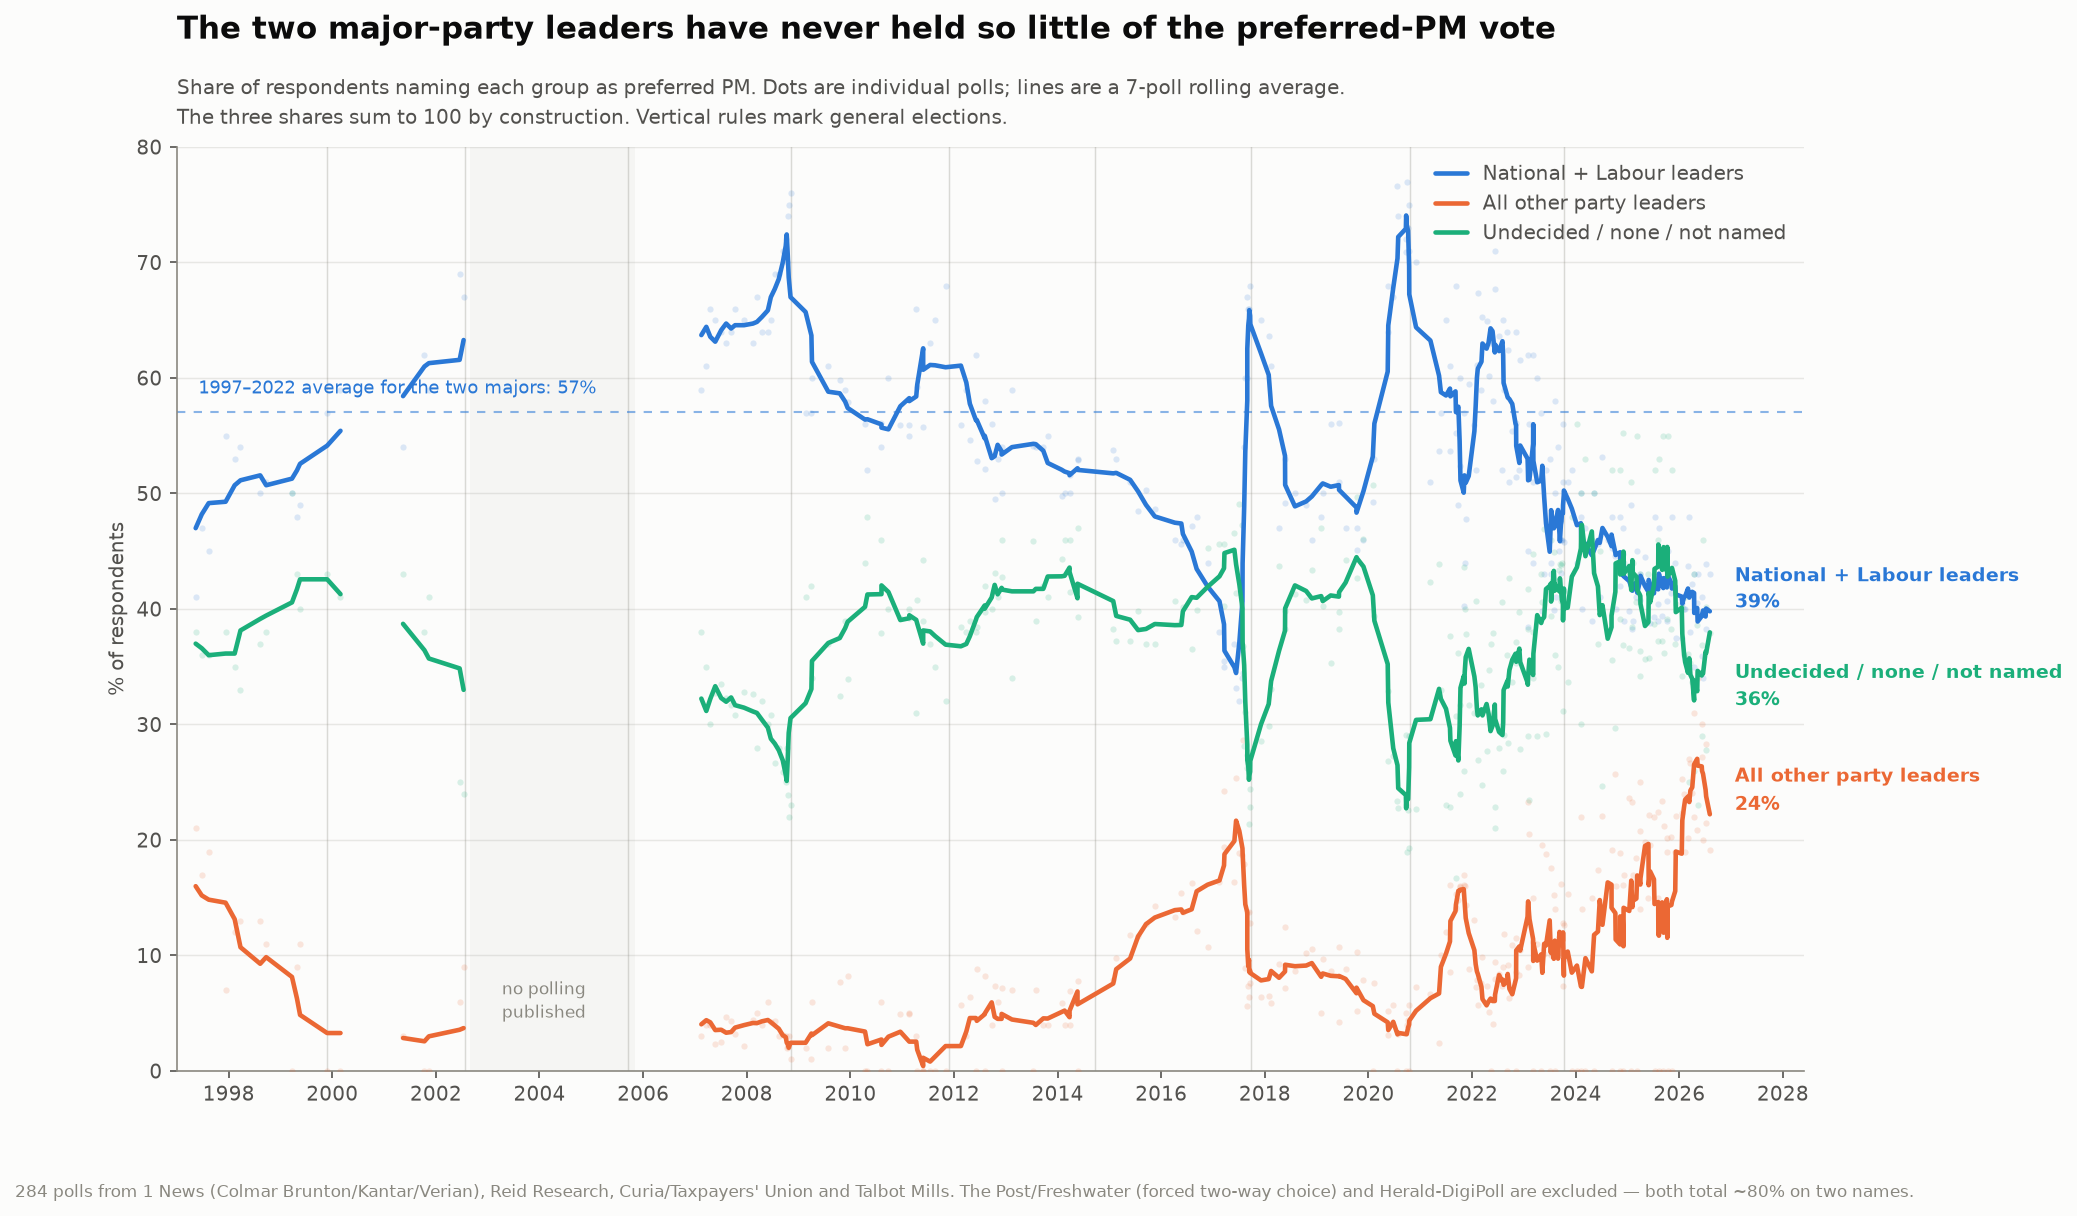
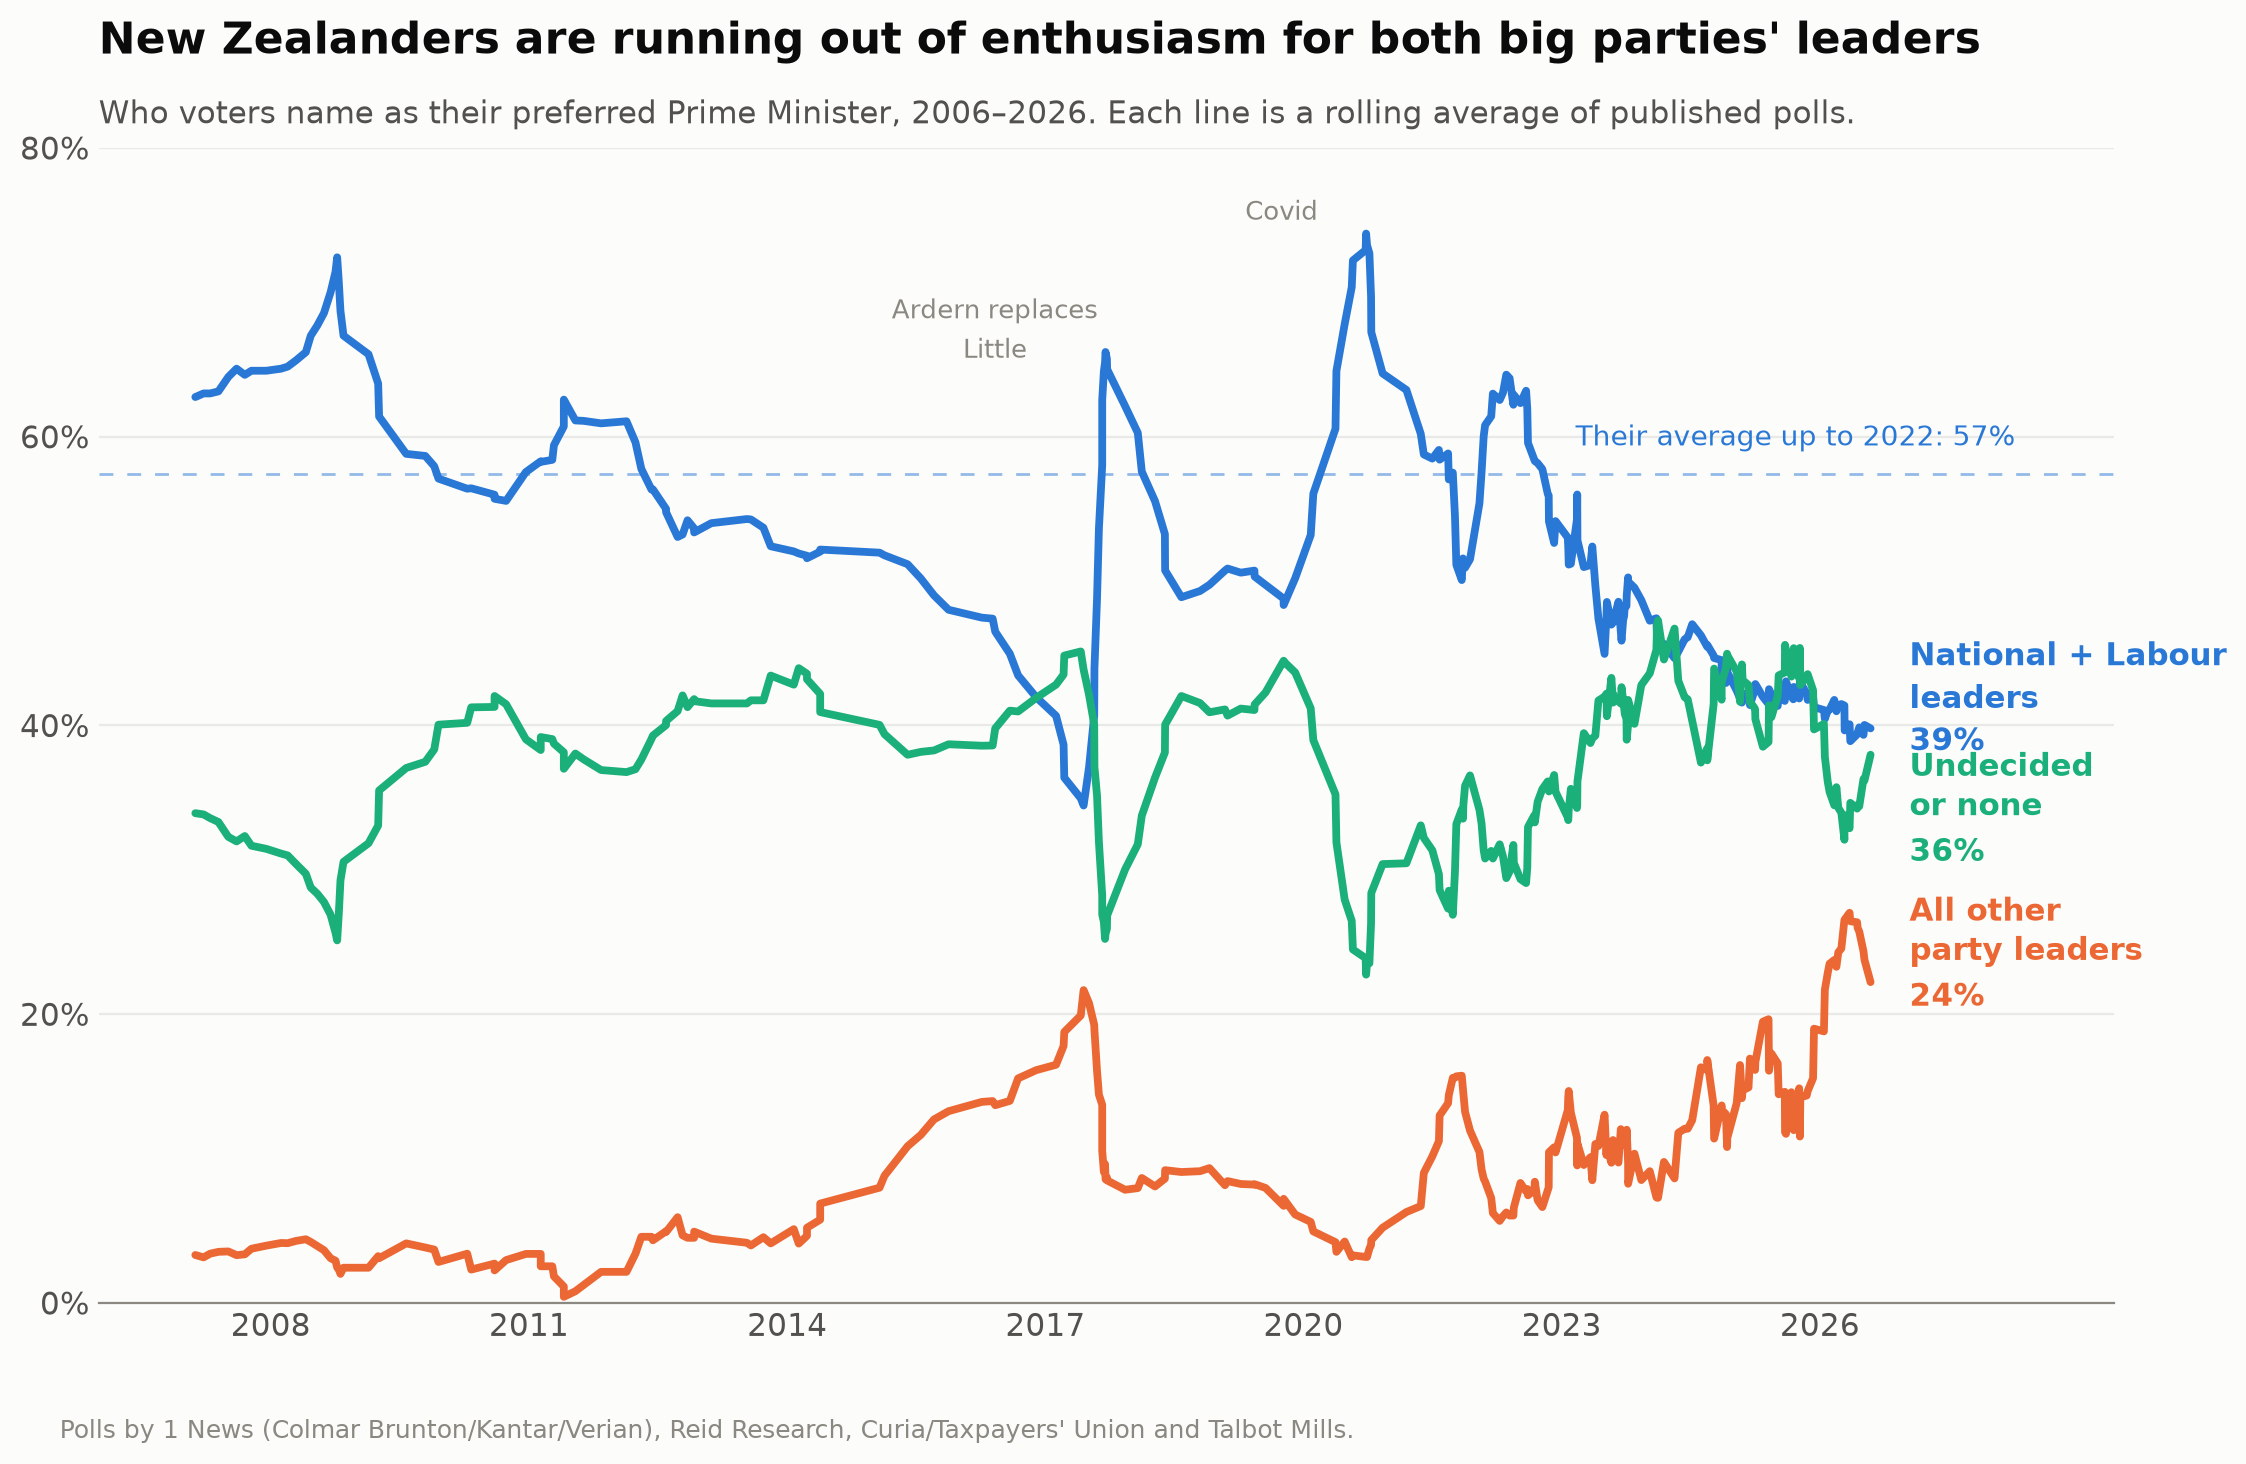
Rework preferred-PM composition chart for a general readership
Starts at 2006 rather than 1997, which also drops the sparse early series and
the 2003-05 hole. Strips the chart back for print: no scatter layer, no legend
box (the three lines are labelled at their right-hand ends, which carries
identity more directly than a duplicate key), no election rules, no left spine,
20-point y-grid.

Adds plain-language framing — a headline that states the finding, and two notes
marking the Ardern and Covid spikes, which a reader outside politics would
otherwise have no way to place.

diff --git a/pm_composition_graph.py b/pm_composition_graph.py
@@ -1,7 +1,7 @@
 #!/usr/bin/env python3
 """
-Where the preferred-PM vote sits: the two major-party leaders, every other named
-leader, and the undecided/none residual, 1997-2026.
+Where the preferred-PM vote sits, 2006-2026: the two major-party leaders, every
+other named leader, and the undecided/none residual.
 
 Restricted to the four continuous polling houses. The Post/Freshwater asks a
 forced two-way choice (its two numbers total ~80) and Herald-DigiPoll ran on a
@@ -18,16 +18,18 @@ import matplotlib.dates as mdates
 import matplotlib.pyplot as plt
 import pandas as pd
 
-from pm_history_graph import LEADER_PARTY, ELECTIONS
+from pm_history_graph import LEADER_PARTY
 
 ROOT = Path(__file__).parent
 
-# Reference palette slots 1-3 — the three that validate on the all-pairs list
-# colour, legend label, vertical nudge (points) for the end label
+START = "2006-01-01"
+
+# Reference palette slots 1-3 — the three that validate on the all-pairs list.
+# colour, label, vertical nudge (points) so the end labels don't collide
 SERIES = {
-    "majors": ("#2a78d6", "National + Labour leaders", 14),
-    "minors": ("#eb6834", "All other party leaders", 0),
-    "residual": ("#1baf7a", "Undecided / none / not named", -16),
+    "majors": ("#2a78d6", "National + Labour\nleaders", 14),
+    "minors": ("#eb6834", "All other\nparty leaders", 0),
+    "residual": ("#1baf7a", "Undecided\nor none", -10),
 }
 
 CORE_HOUSES = {
@@ -37,21 +39,16 @@ CORE_HOUSES = {
     "Talbot Mills": ("talbot",),
 }
 
-BASELINE_END = 2023  # long-run major-party average is taken over 1997-2022
+# Short notes for the two spikes a general reader would otherwise puzzle over
+NOTES = [
+    ("2016-06-01", 70, "Ardern replaces\nLittle"),
+    ("2019-10-01", 77, "Covid"),
+]
 
 TEXT_PRIMARY = "#0b0b0b"
 TEXT_SECONDARY = "#52514e"
 TEXT_MUTED = "#8a8880"
 SURFACE = "#fcfcfb"
-
-
-def break_gaps(line: pd.Series, days: int = 270) -> pd.Series:
-    """Don't draw a straight line across the years nobody polled."""
-    gaps = line.index.to_series().diff() > pd.Timedelta(days=days)
-    if not gaps.any():
-        return line
-    breaks = pd.Series(float("nan"), index=line.index[gaps] - pd.Timedelta(days=1))
-    return pd.concat([line, breaks]).sort_index()
 
 
 def house(pollster: str):
@@ -63,11 +60,12 @@ def house(pollster: str):
 
 
 def build() -> pd.DataFrame:
-    """One row per poll: the three shares, which must sum to 100."""
+    """One row per poll: the three shares, which sum to 100."""
     df = pd.read_csv(ROOT / "data" / "pm_polling_all.csv", parse_dates=["date"])
     df["party"] = df["candidate"].map(LEADER_PARTY)
     df["house"] = df["pollster"].map(house)
     df = df.dropna(subset=["house"])
+    df = df[df["date"] >= START]
 
     rows = []
     for (date, pollster), poll in df.groupby(["date", "pollster"]):
@@ -89,75 +87,62 @@ def build() -> pd.DataFrame:
 
 def main():
     df = build()
-    baseline = df.loc[df.index.year < BASELINE_END, "majors"].mean()
+    baseline = df.loc[df.index.year < 2023, "majors"].mean()
 
-    fig, ax = plt.subplots(figsize=(14, 8))
+    fig, ax = plt.subplots(figsize=(13, 7.5))
     fig.patch.set_facecolor(SURFACE)
     ax.set_facecolor(SURFACE)
 
-    for election in ELECTIONS:
-        ax.axvline(pd.Timestamp(election), color=TEXT_MUTED, linewidth=0.7,
-                   alpha=0.3, zorder=1)
+    ax.axhline(baseline, color=SERIES["majors"][0], linewidth=1,
+               linestyle=(0, (5, 5)), alpha=0.5, zorder=2)
+    ax.text(pd.Timestamp("2023-03-01"), baseline + 1.5,
+            f"Their average up to 2022: {baseline:.0f}%",
+            fontsize=10, color=SERIES["majors"][0], va="bottom")
 
-    # No preferred-PM polling published for the 2005 cycle
-    ax.axvspan(pd.Timestamp("2002-09-01"), pd.Timestamp("2005-11-01"),
-               color=TEXT_MUTED, alpha=0.06, zorder=0, linewidth=0)
-    ax.text(pd.Timestamp("2004-02-01"), 4, "no polling\npublished",
-            ha="center", va="bottom", fontsize=8, color=TEXT_MUTED, linespacing=1.4)
-
-    ax.axhline(baseline, color=SERIES["majors"][0], linewidth=1, linestyle=(0, (4, 4)),
-               alpha=0.55, zorder=2)
-    ax.text(pd.Timestamp("1997-06-01"), baseline + 1.2,
-            f"1997–2022 average for the two majors: {baseline:.0f}%",
-            fontsize=8.5, color=SERIES["majors"][0], va="bottom")
+    for date, y, text in NOTES:
+        ax.annotate(text, xy=(pd.Timestamp(date), y), ha="center", va="top",
+                    fontsize=9.5, color=TEXT_MUTED, linespacing=1.4, zorder=3)
 
     for key, (colour, label, label_dy) in SERIES.items():
-        ax.plot(df.index, df[key], "o", markersize=3, color=colour,
-                alpha=0.16, markeredgewidth=0, zorder=3)
-        line = break_gaps(df[key].rolling(7, center=True, min_periods=3).mean())
-        ax.plot(line.index, line.values, color=colour, linewidth=2.2,
-                solid_capstyle="round", zorder=4, label=label)
+        line = df[key].rolling(7, center=True, min_periods=3).mean()
+        ax.plot(line.index, line.values, color=colour, linewidth=2.8,
+                solid_capstyle="round", zorder=4)
         ax.annotate(f"{label}\n{df[key].tail(6).mean():.0f}%",
                     xy=(df.index[-1], df[key].tail(6).mean()),
-                    textcoords="offset points", xytext=(12, label_dy),
-                    ha="left", va="center", fontsize=9, fontweight="bold",
+                    textcoords="offset points", xytext=(14, label_dy),
+                    ha="left", va="center", fontsize=11, fontweight="bold",
                     color=colour, linespacing=1.4, zorder=5)
 
-    ax.set_title("The two major-party leaders have never held so little of the "
-                 "preferred-PM vote",
-                 fontsize=15, fontweight="bold", color=TEXT_PRIMARY, loc="left", pad=52)
+    ax.set_title("New Zealanders are running out of enthusiasm for both big parties' leaders",
+                 fontsize=16, fontweight="bold", color=TEXT_PRIMARY, loc="left", pad=34)
     ax.text(0, 1.015,
-            "Share of respondents naming each group as preferred PM. Dots are individual "
-            "polls; lines are a 7-poll rolling average.\nThe three shares sum to 100 by "
-            "construction. Vertical rules mark general elections.",
-            transform=ax.transAxes, fontsize=9.5, color=TEXT_SECONDARY,
-            va="bottom", linespacing=1.5)
+            "Who voters name as their preferred Prime Minister, 2006–2026. "
+            "Each line is a rolling average of published polls.",
+            transform=ax.transAxes, fontsize=11, color=TEXT_SECONDARY, va="bottom")
 
-    ax.set_ylabel("% of respondents", fontsize=9.5, color=TEXT_SECONDARY)
     ax.set_ylim(0, 80)
-    ax.set_xlim(pd.Timestamp("1997-01-01"), pd.Timestamp("2028-06-01"))
-    ax.xaxis.set_major_locator(mdates.YearLocator(2))
+    ax.set_xlim(pd.Timestamp(START), pd.Timestamp("2029-06-01"))
+    ax.set_yticks(range(0, 81, 20))
+    ax.yaxis.set_major_formatter(lambda v, _: f"{v:.0f}%")
+    ax.set_xticks([pd.Timestamp(f"{y}-01-01") for y in range(2008, 2027, 3)])
     ax.xaxis.set_major_formatter(mdates.DateFormatter("%Y"))
-    ax.grid(axis="y", color=TEXT_MUTED, alpha=0.18, linewidth=0.7)
+    ax.grid(axis="y", color=TEXT_MUTED, alpha=0.16, linewidth=0.8)
     ax.set_axisbelow(True)
-    for side in ("top", "right"):
+    for side in ("top", "right", "left"):
         ax.spines[side].set_visible(False)
-    for side in ("left", "bottom"):
-        ax.spines[side].set_color(TEXT_MUTED)
-        ax.spines[side].set_linewidth(0.8)
-    ax.tick_params(colors=TEXT_SECONDARY, labelsize=9.5)
-    ax.legend(loc="upper right", frameon=False, fontsize=9.5,
-              labelcolor=TEXT_SECONDARY, handlelength=1.6)
+    ax.spines["bottom"].set_color(TEXT_MUTED)
+    ax.spines["bottom"].set_linewidth(0.8)
+    ax.tick_params(colors=TEXT_SECONDARY, labelsize=11, length=0)
 
-    fig.text(0.5, 0.005,
-             f"{len(df)} polls from 1 News (Colmar Brunton/Kantar/Verian), Reid Research, "
-             "Curia/Taxpayers' Union and Talbot Mills. The Post/Freshwater (forced two-way "
-             "choice) and Herald-DigiPoll are excluded — both total ~80% on two names.",
-             ha="center", fontsize=8, color=TEXT_MUTED)
+    fig.text(0.11, 0.02,
+             "Polls by 1 News (Colmar Brunton/Kantar/Verian), Reid Research, "
+             "Curia/Taxpayers' Union and Talbot Mills.",
+             ha="left", fontsize=9, color=TEXT_MUTED)
 
     out = ROOT / "reports" / "pm_composition.png"
-    fig.savefig(out, dpi=150, bbox_inches="tight", facecolor=SURFACE)
-    print(f"Saved {out} ({len(df)} polls, majors baseline {baseline:.1f})")
+    fig.savefig(out, dpi=200, bbox_inches="tight", facecolor=SURFACE)
+    print(f"Saved {out} ({len(df)} polls from {df.index.min():%b %Y}, "
+          f"baseline {baseline:.1f})")
 
 
 if __name__ == "__main__":
